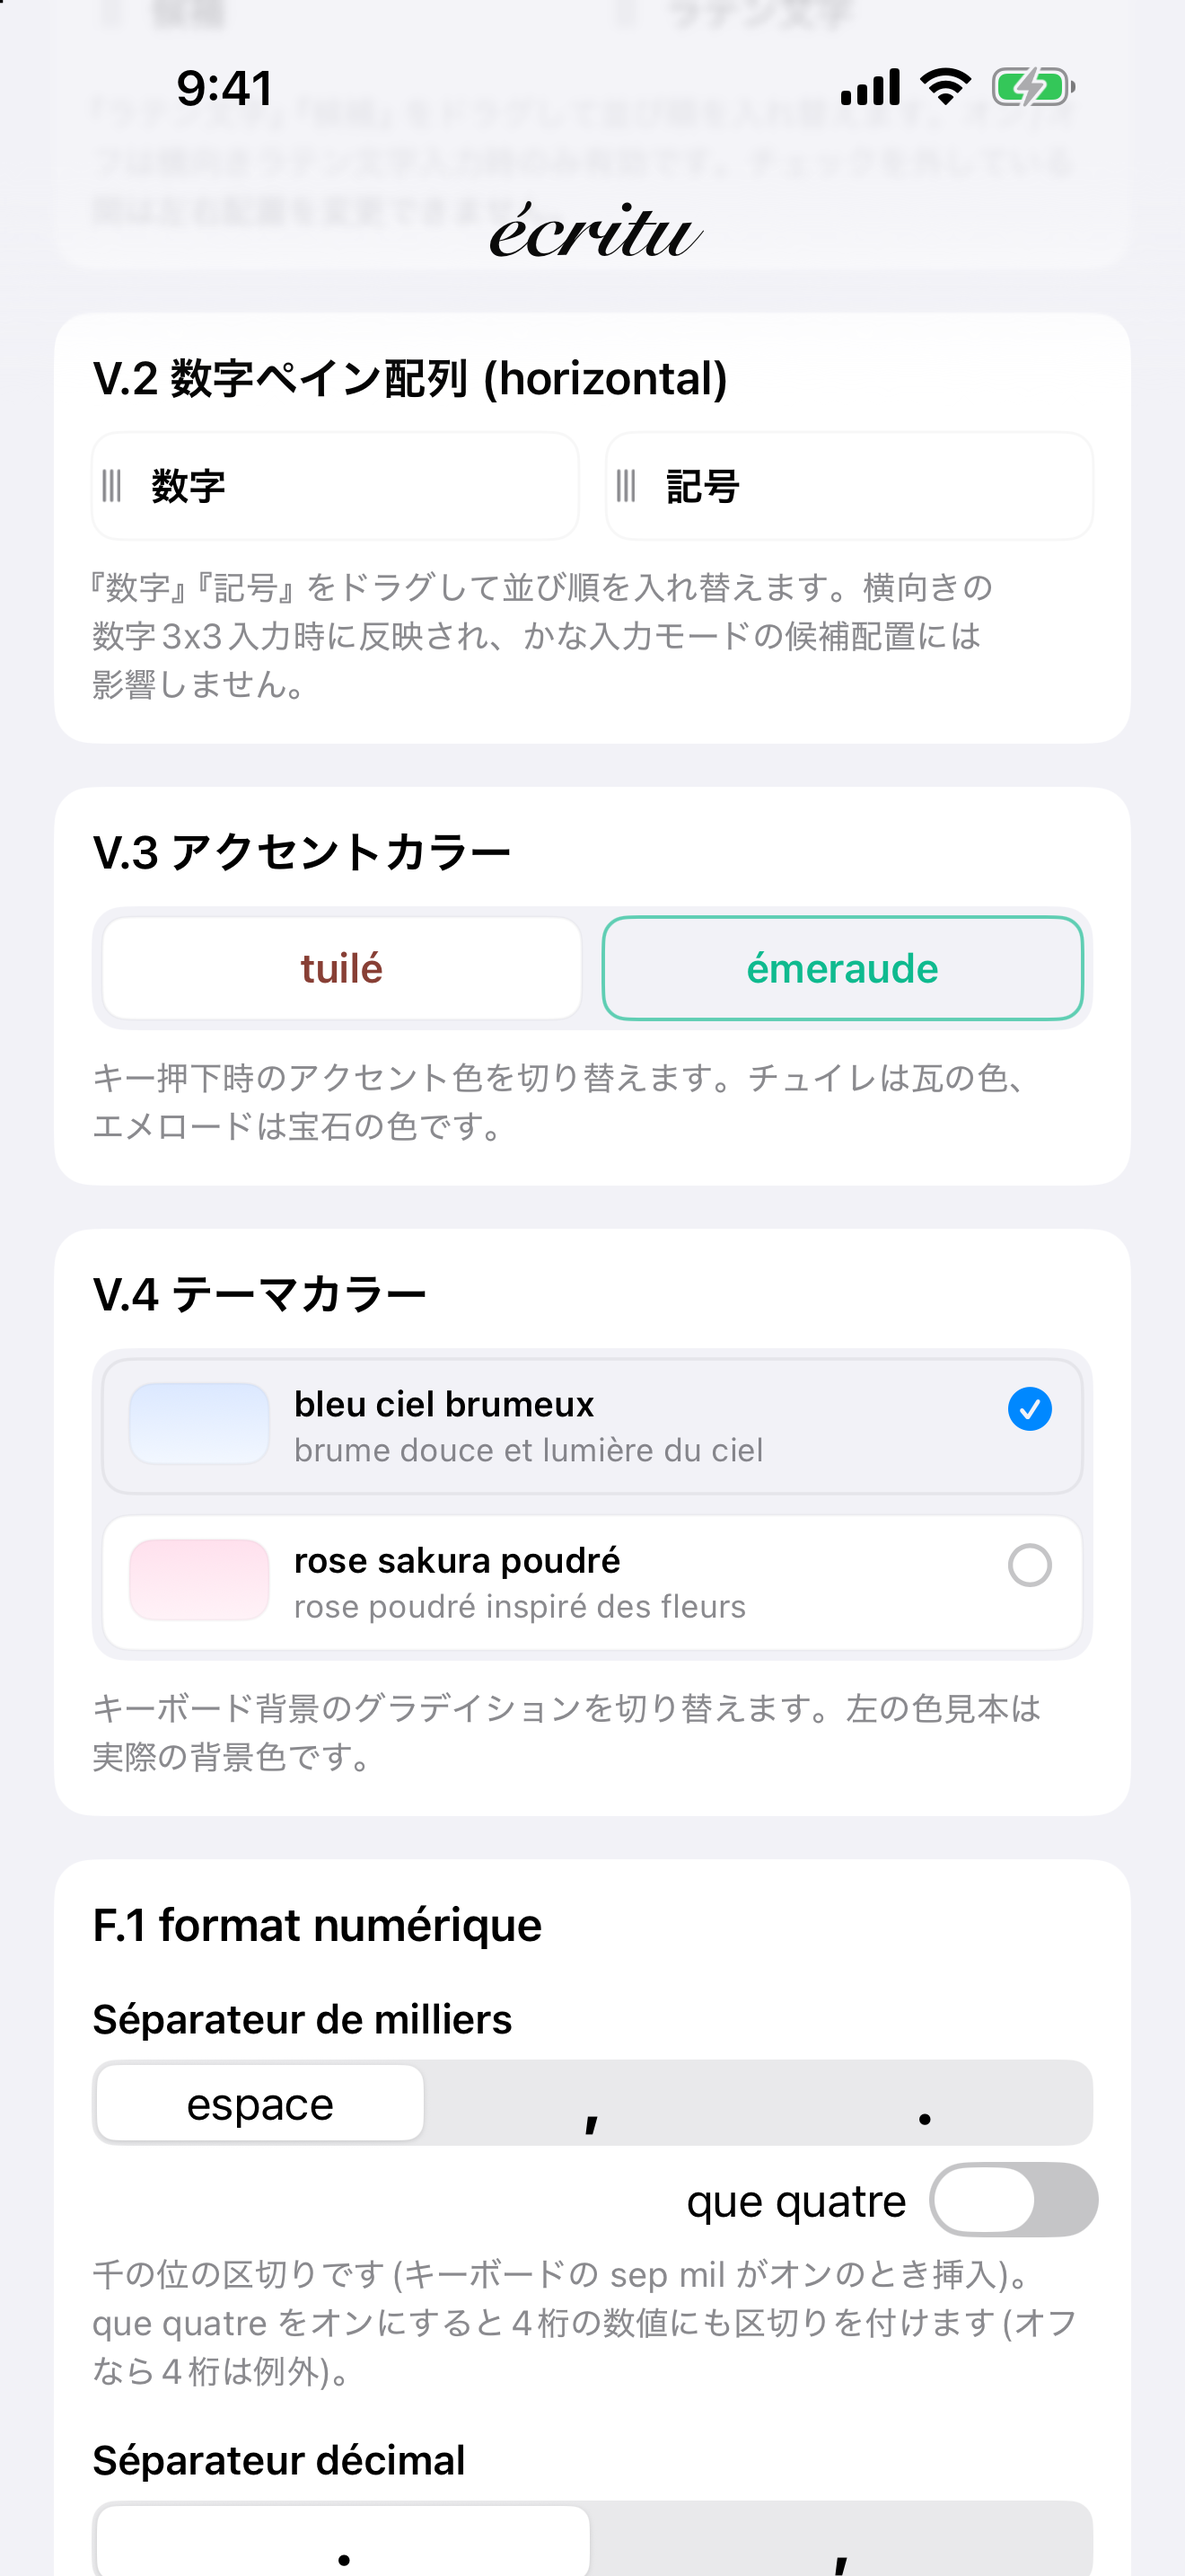
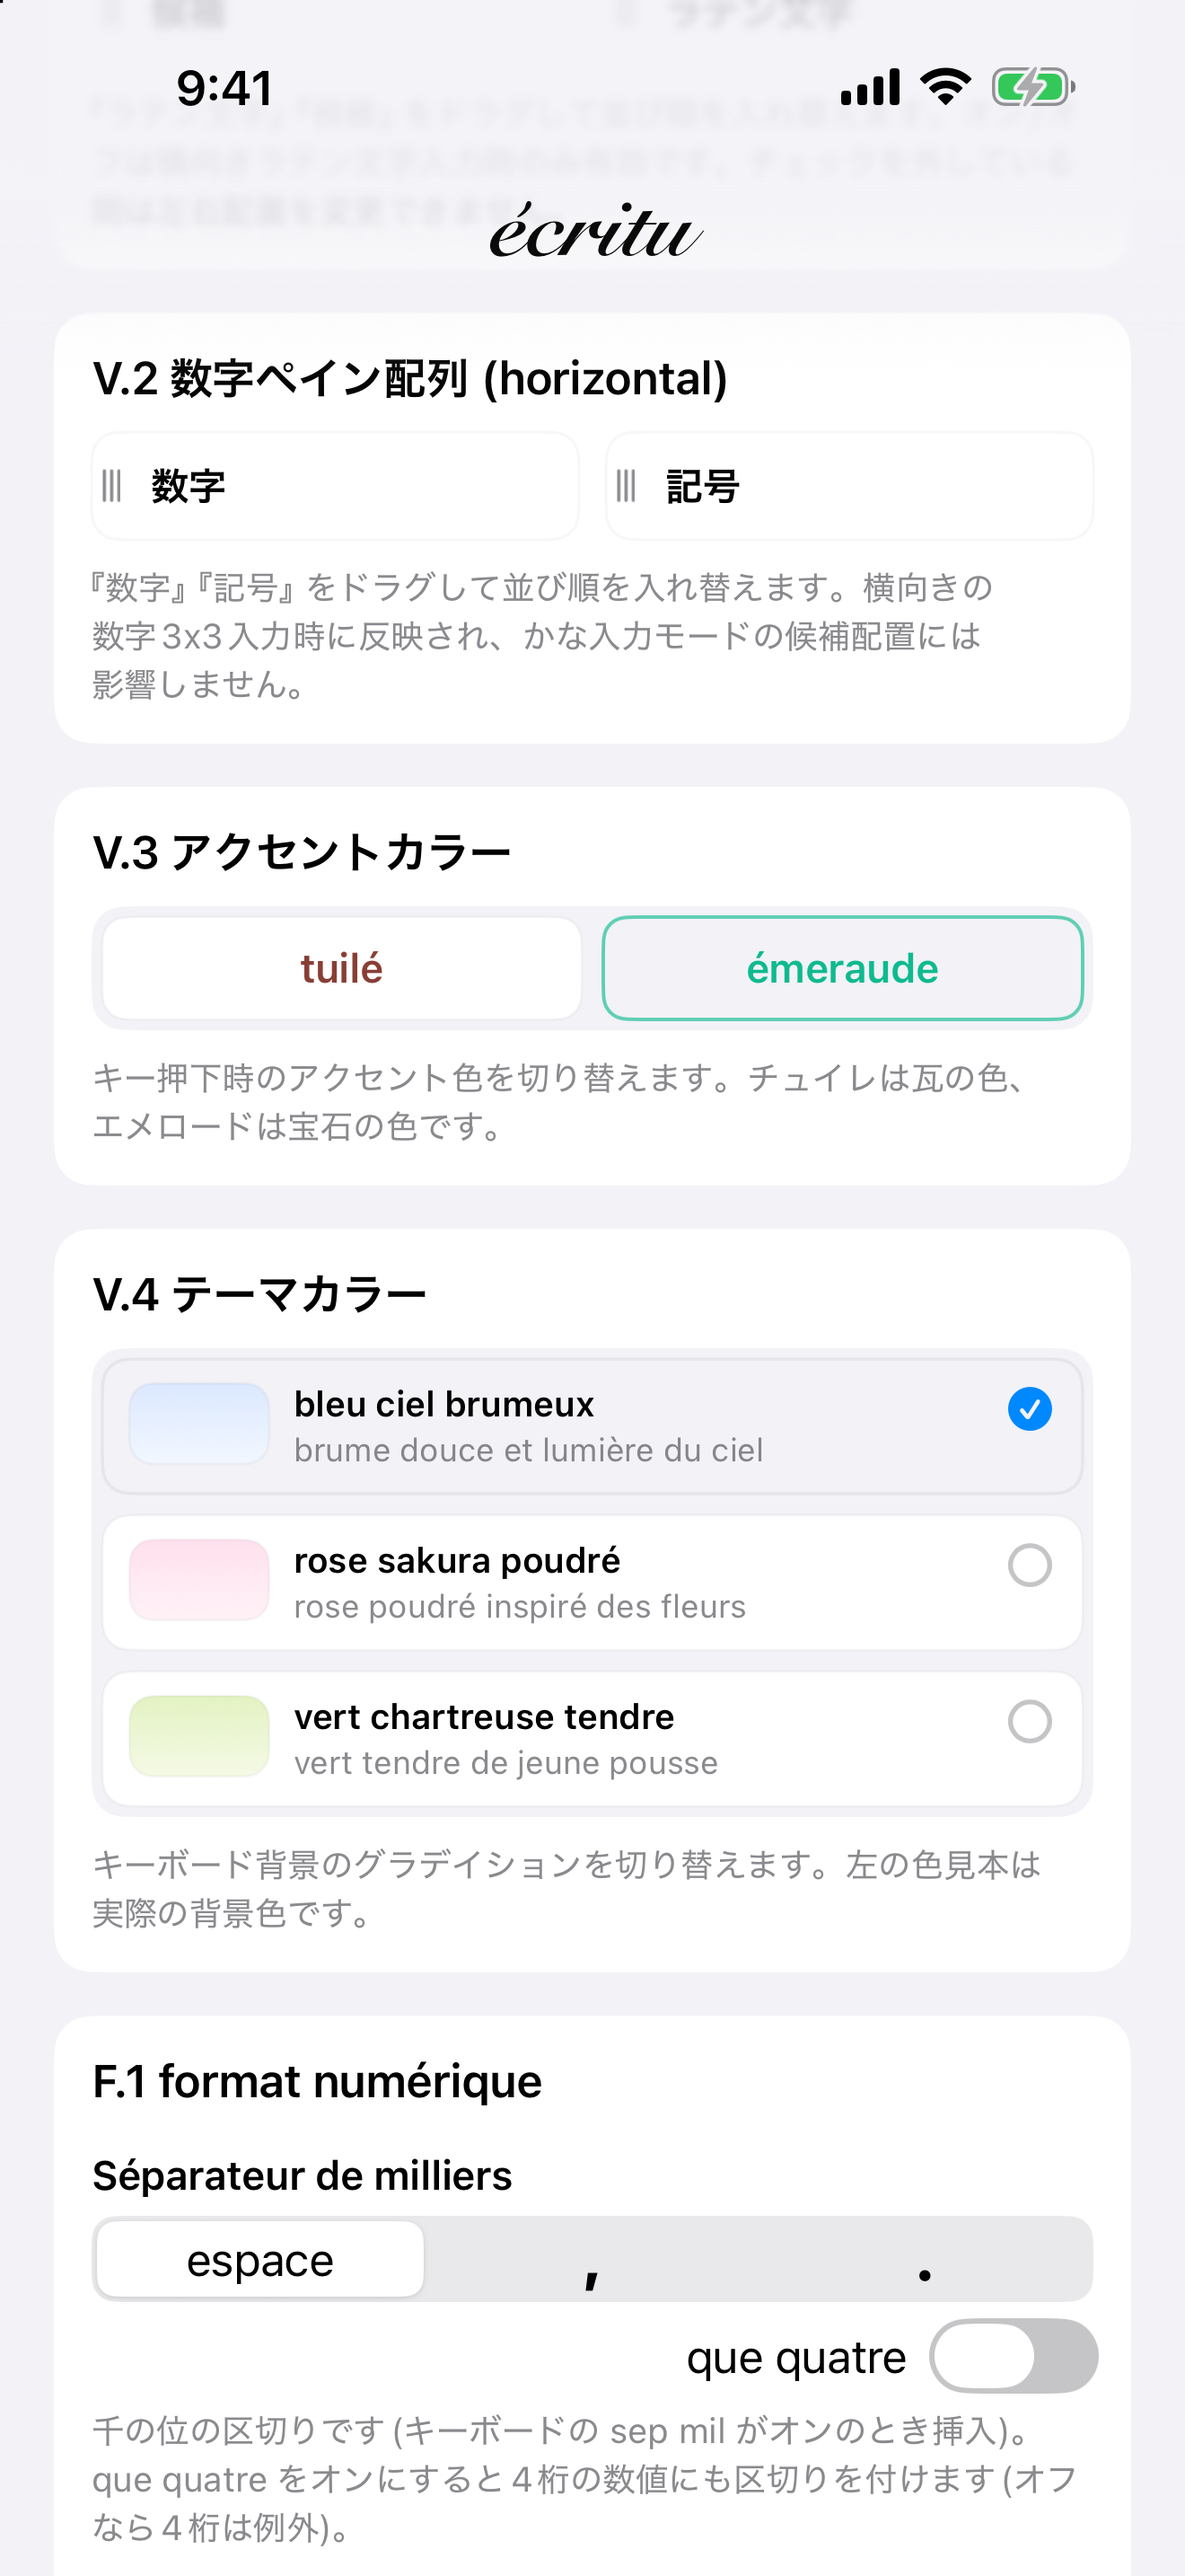
docs(appstore): スクリーンショット 01/02/04/06 を撮り直す(take 9: ☺ キーの大きさ・顔文字の絞り込み・テーマカラー 3 色)(3680)
03/05 は新しい回と同じ見た目なので take 8 のまま。撮影でつまずいた点を screenshots-plan.md に記録。

diff --git a/appstore/screenshots-plan.md b/appstore/screenshots-plan.md
@@ -13,7 +13,20 @@
 3. 下記「撮影用の入力ページ」をホーム画面に追加し、そのアイコンから起動
 4. 地球儀で écritu に切替 → `xcrun simctl io <UD> screenshot appstore/screenshots/NN-name.png`
 
-## 撮影状態(take 8 = 現行、2026-10-04。全 6 枚とマニュアルの hero・目次画像を撮り直し)
+## 撮影状態(take 9 = 現行、2026-10-17。01/02/04/06 を撮り直し、03/05 は take 8 のまま)
+
+**take 9(2026-10-17、edition 3507)**: 01(5×2 の左下 ☺ が 18→28pt、3646)、04(顔文字を 748 件に絞った 3678)、
+06(テーマカラー 3 色・3611)を反映。02 は帯なしの回が撮れたので差し替え(見た目の変更は無い)。03/05 は新しい回と
+見比べて同じだったので take 8 のまま。今回つまずいた点: (1) フルアクセスの帯の「閉じた記録」は
+`fullAccessNoticeDismissedEdition`(値=入れた appex の CFBundleVersion、3464〜)で、`didDismissFullAccessNotice` では
+消えない。帯が出ると 05 では数字面の上に「般 › キーボード …」の切れ端が写る。(2) `simctl get_app_container` は
+起動中にしか引けない(停止中に呼ぶとパスが空になり PlistBuddy が / に書こうとする)。先に起動して引いてから停止して書く。
+(3) 06 は 戦略的初期設定 を基準にし(`settingsBasePreset=stratégique`)、ユーザ設定キーを全部消してから起動すると
+● が付かず V.4 は bleu になる(scratchpad user_keys.txt = ContentView+LogoMenu の userSettingsKeys)。
+(4) 余白付き(キーボード上端 y=1770)は回によって出続けるので、上端が 1821 になるまで最大 6〜8 回撮り直す
+(check.py)。ダイナミックアイランドが写った回は島の無い方(_1)を使う。
+
+## 撮影状態(take 8 2026-10-04。全 6 枚とマニュアルの hero・目次画像を撮り直し)
 
 **take 8(2026-10-04、edition 3322)**: 01〜05 と hero-kana は take 7 とピクセル単位で同じ(キーボードの見た目は 10-02 から
 変わっていない)ことを確かめて差し替え。06 は設定カードの付番(V.2/V.3/V.4/F.1、2026-10-02)を反映して撮り直し。
